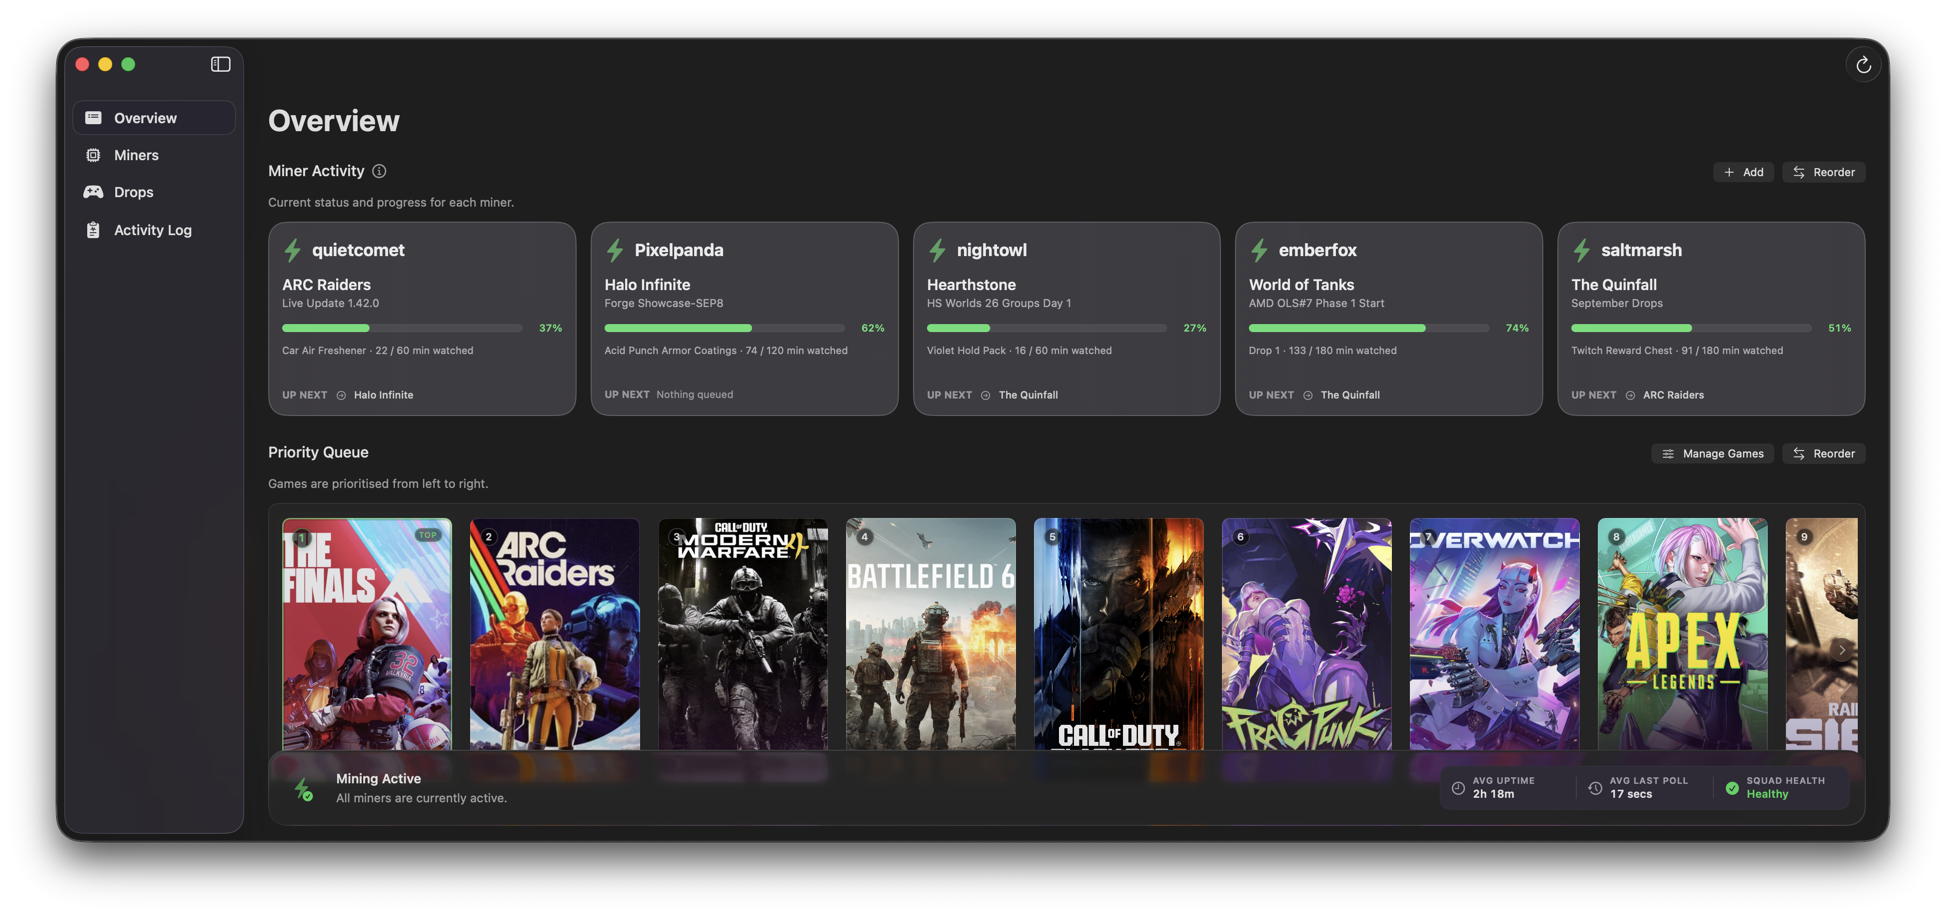
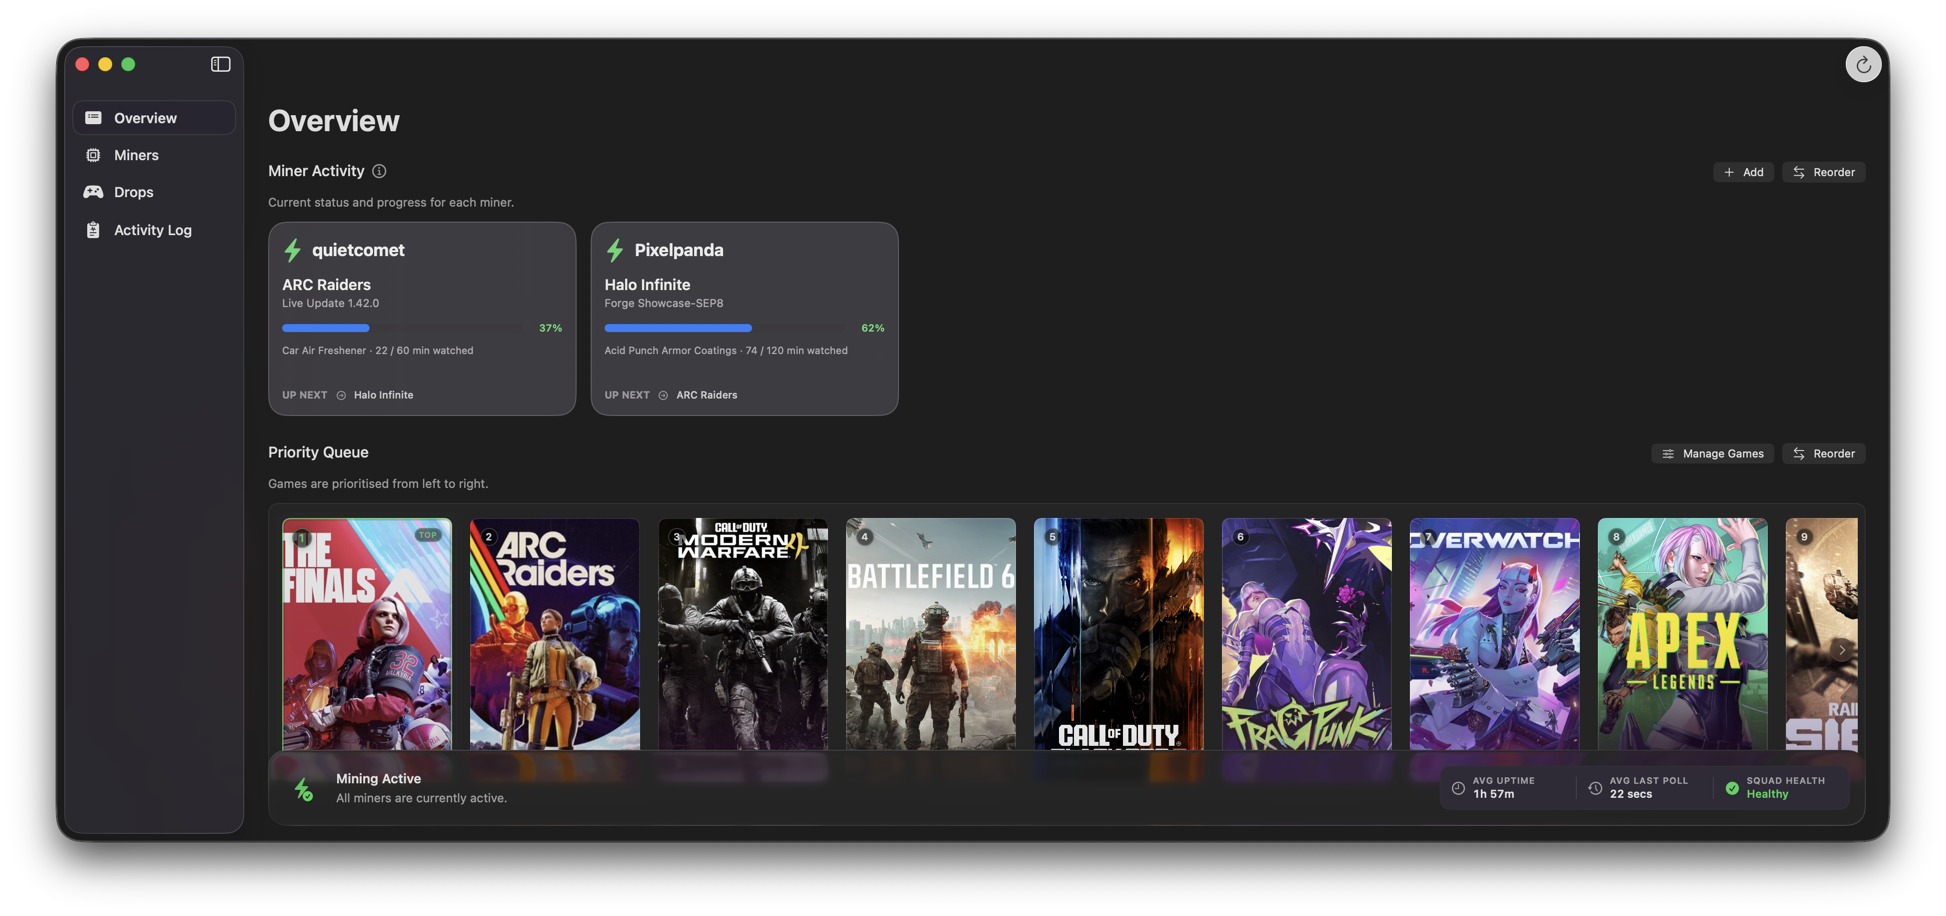
Show two miners in the landing hero
The hero is the first thing a visitor sees, and five cards at the width the
grid now gives them filled the row with detail before the page had said what
the app is. Two reads as a product shot rather than a dashboard dump.

The fleet size moves into SWIFTMINER_MARKETING_MINERS so this does not have
to be baked into the fixture: the multi-account screenshot further down the
page still wants all five, and both come from the same build.

The README shares these files, so its Overview shot follows the hero.

diff --git a/Website/public/assets/js/site.js b/Website/public/assets/js/site.js
@@ -98,7 +98,7 @@ document.addEventListener('DOMContentLoaded', () => {
     
     // Bump whenever the landing screenshots are regenerated — the swapped URLs
     // are otherwise identical, so returning visitors keep the cached old ones.
-    const screenshotAssetVersion = '20260909';
+    const screenshotAssetVersion = '20260909b';
 
     function applyTheme(isLight) {
         const theme = isLight ? 'light' : 'dark';
